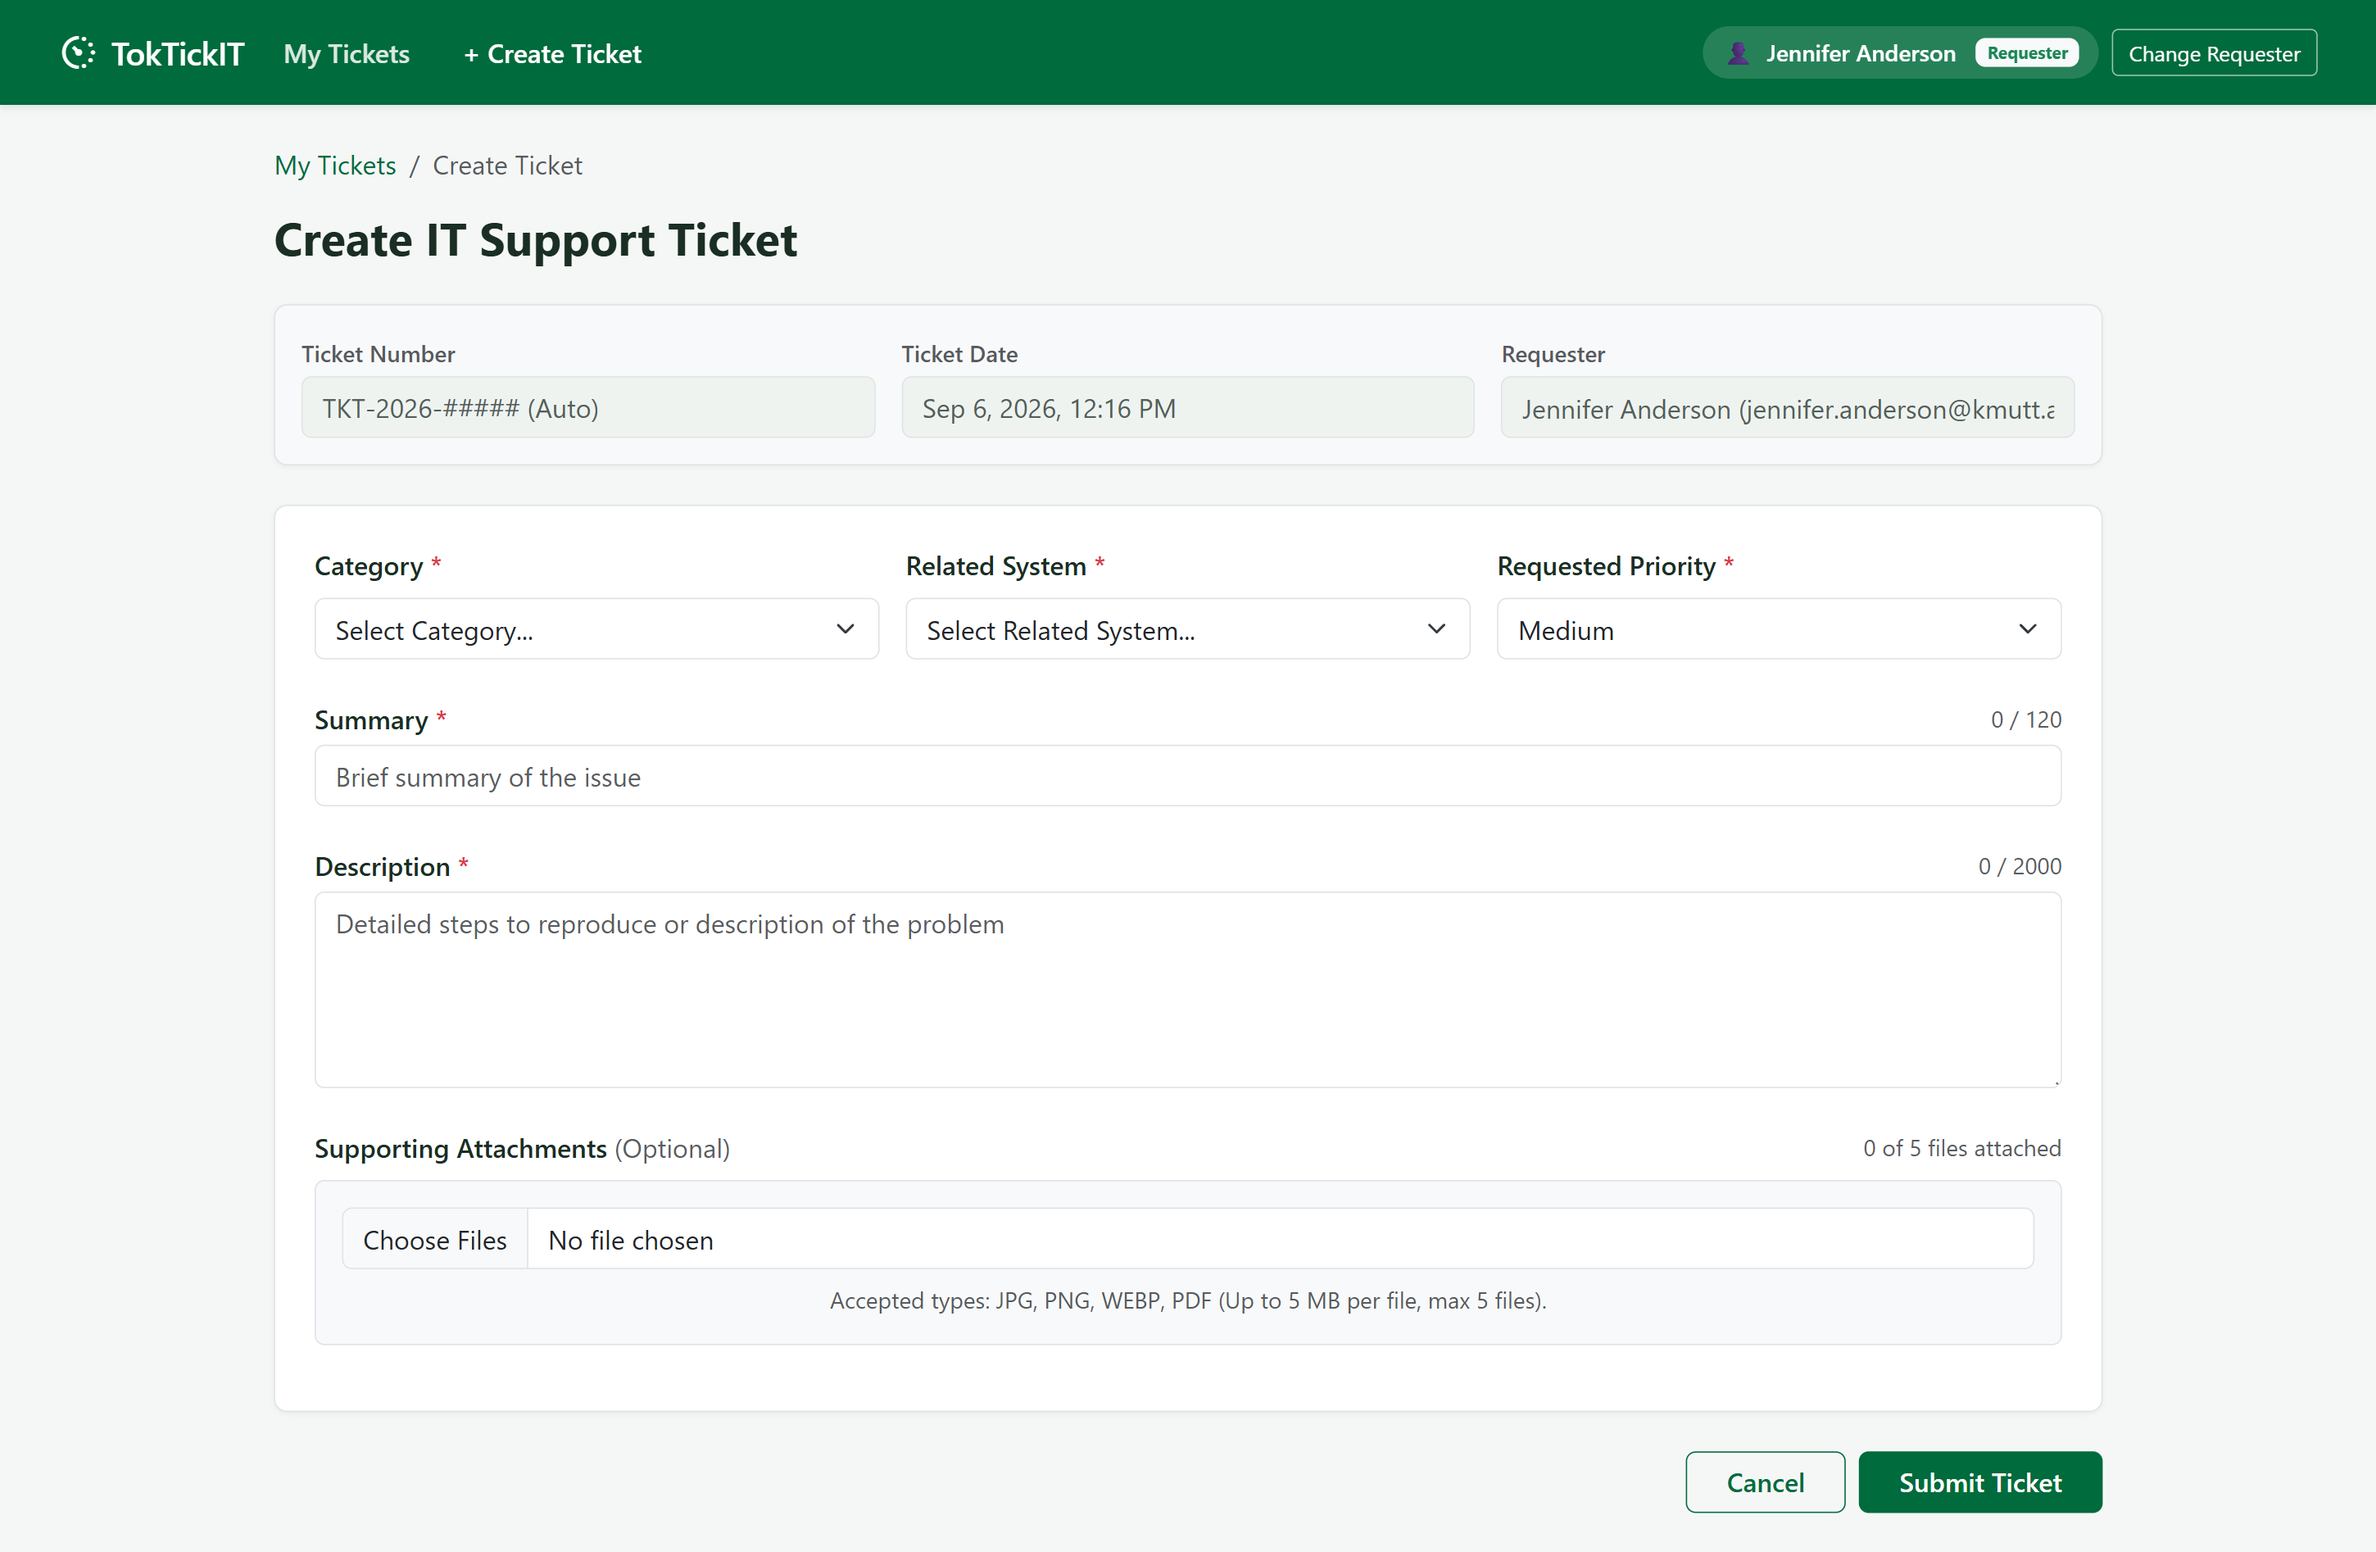
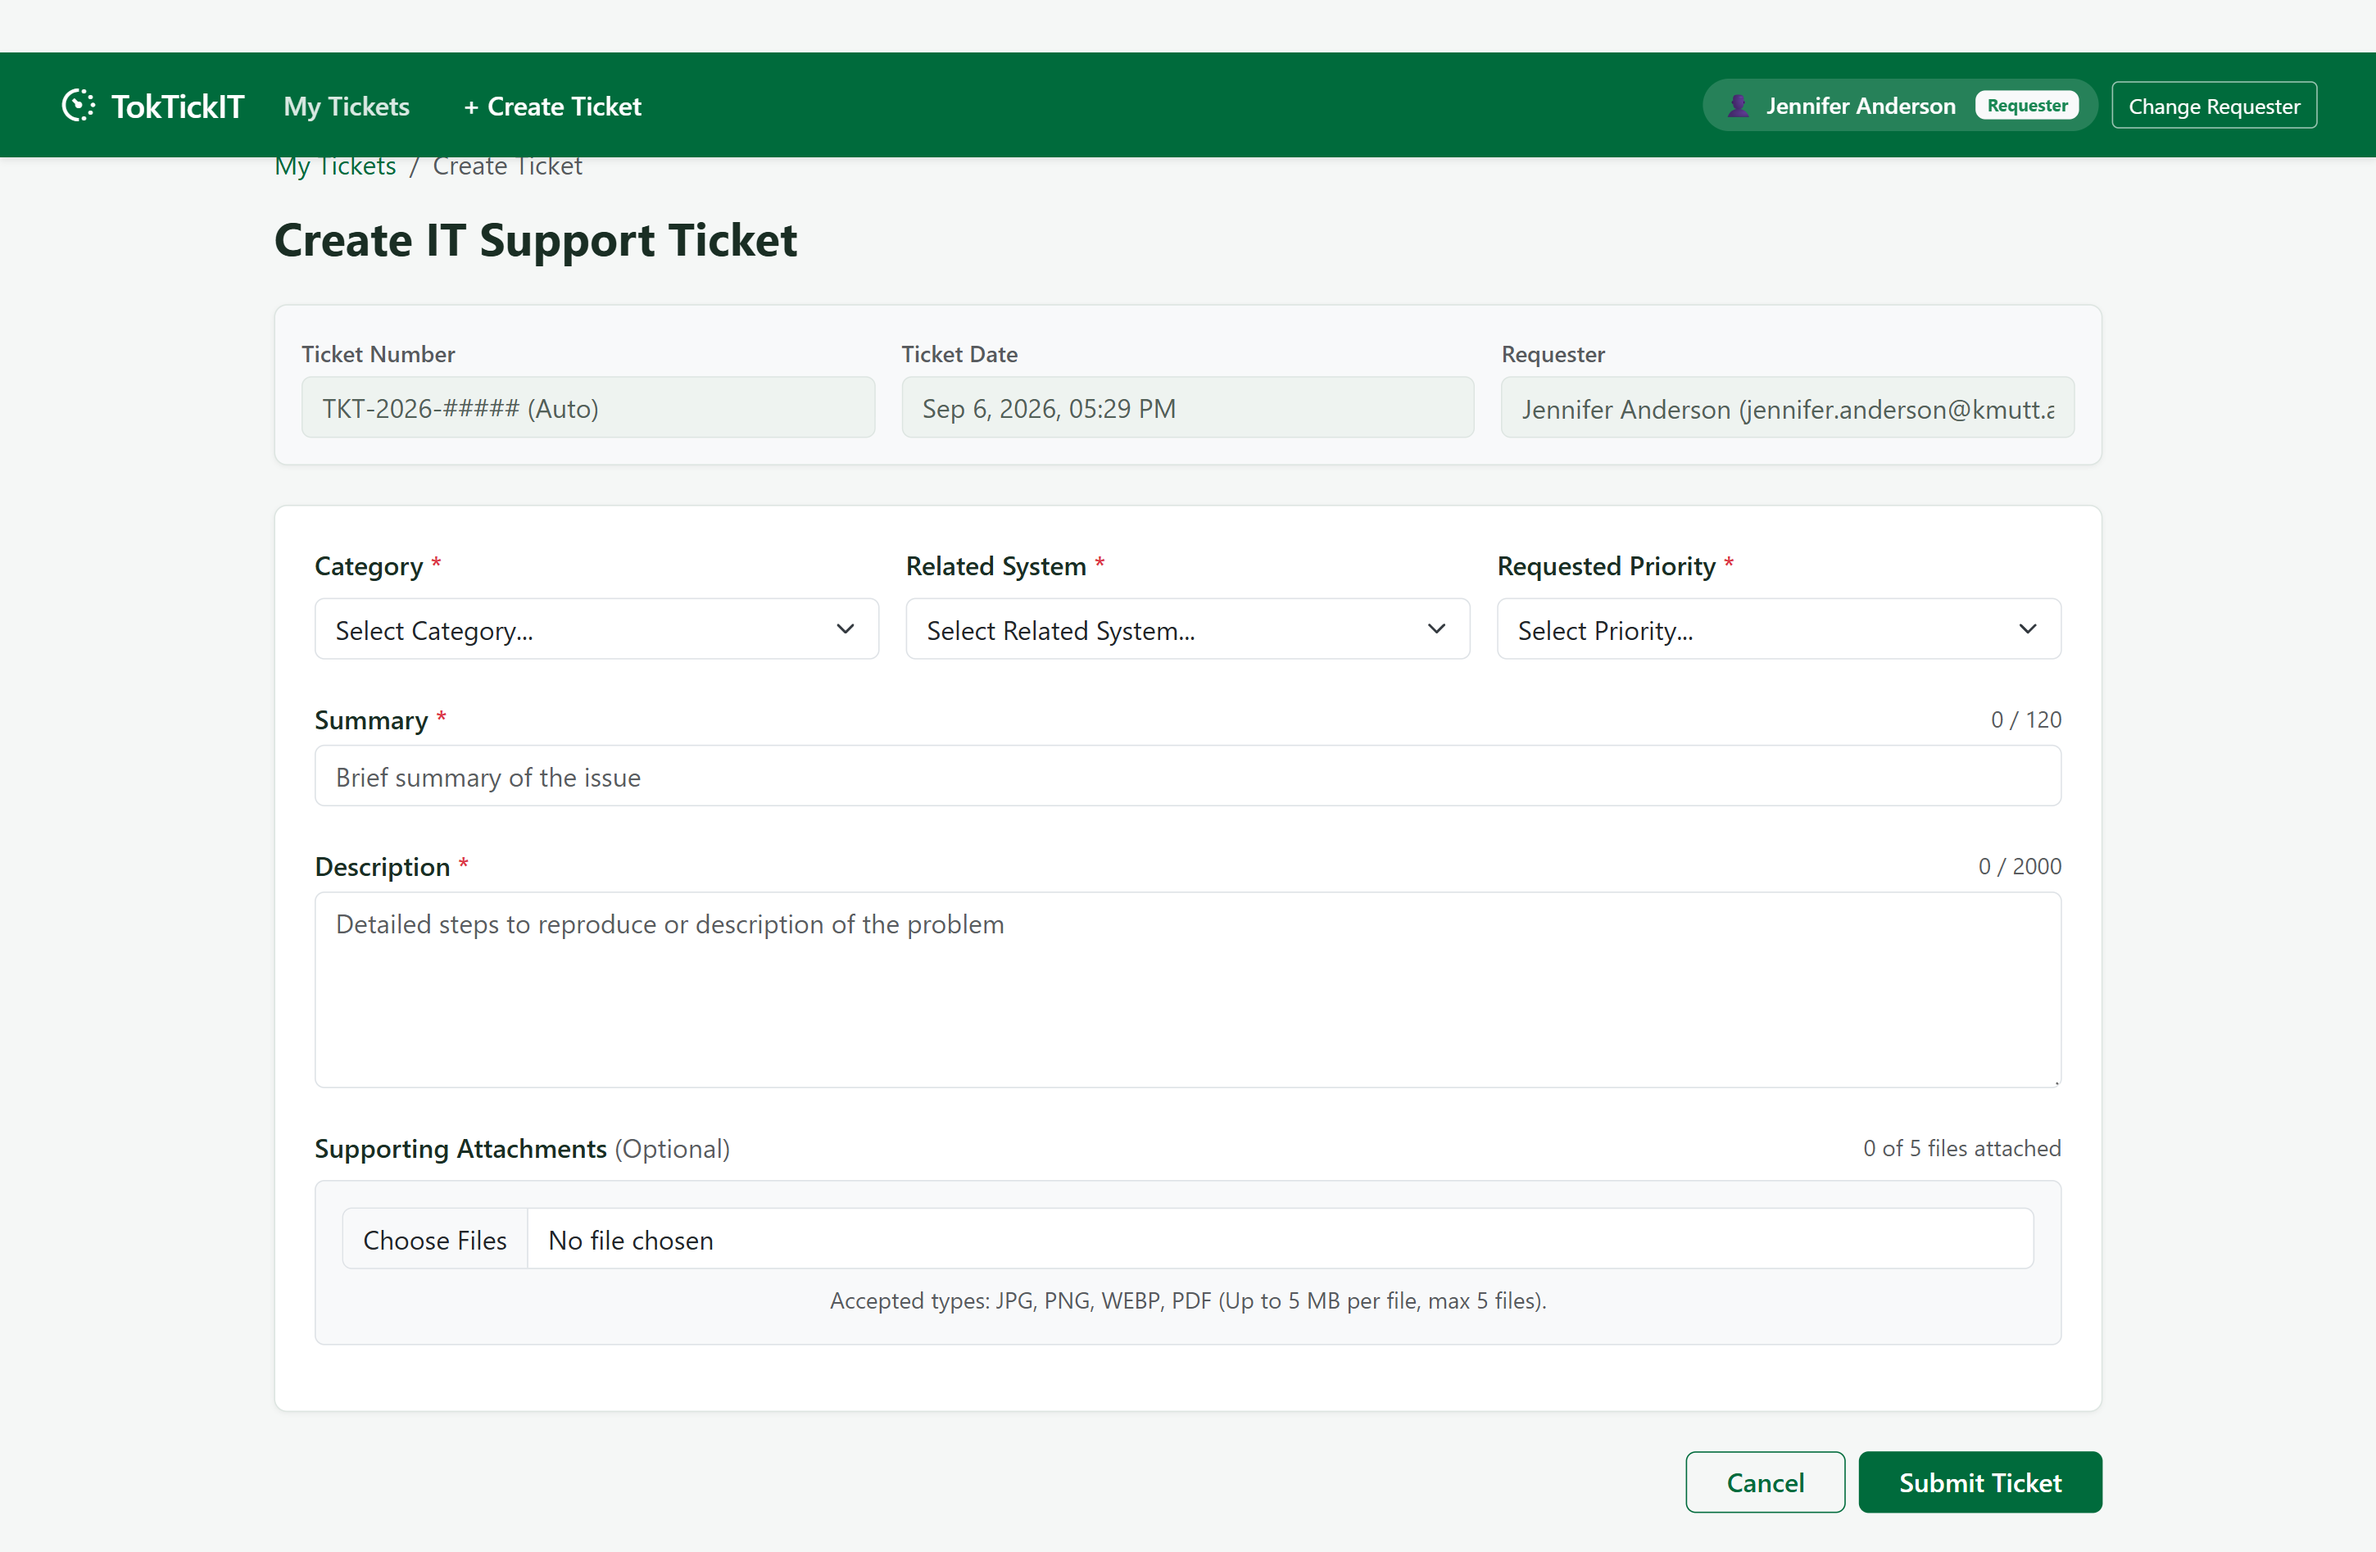
update reviewer.md and screenshot

Changed region(s): [[0.0, 0.0, 1.0, 0.1246], [0.6517, 0.405, 0.6828, 0.4361]]

diff --git a/docs/lab-02/reviewer.md b/docs/lab-02/reviewer.md
@@ -9,10 +9,10 @@
 | https://github.com/Wiggle-Ryutsuki/toktickit/pull/15 | feature/5-dev-requester | Foundation is sound. |
 | https://github.com/Wiggle-Ryutsuki/toktickit/pull/17 | feature/6-create-ticket | All good for real this time |
 | https://github.com/Wiggle-Ryutsuki/toktickit/pull/20 | feature/7-my-tickets | Things are in order |
-| https://github.com/Wiggle-Ryutsuki/toktickit/pull/21 | feature/8-ticket-detail-attachments |  |
+| https://github.com/Wiggle-Ryutsuki/toktickit/pull/21 | feature/8-ticket-detail-attachments | Works as expected now. |
 
-**Reviewer comment I received:** Most of the comments I received were approvals.    
-**How I responded:** I acknowledged the comments and moved to the next feature.
+**Reviewer comment I received:** Most of the comments I received were approvals. There was one detail I missed on my create screen and she was quick to point it out for me.    
+**How I responded:** I acknowledged the comments and fixed the missing features, and then moved to the next feature.
 
 ## Pull Requests I reviewed for my partner
 **My comment:** Most of my partner's PR comments were approvals. There were only a few places where I commented on missing features.
